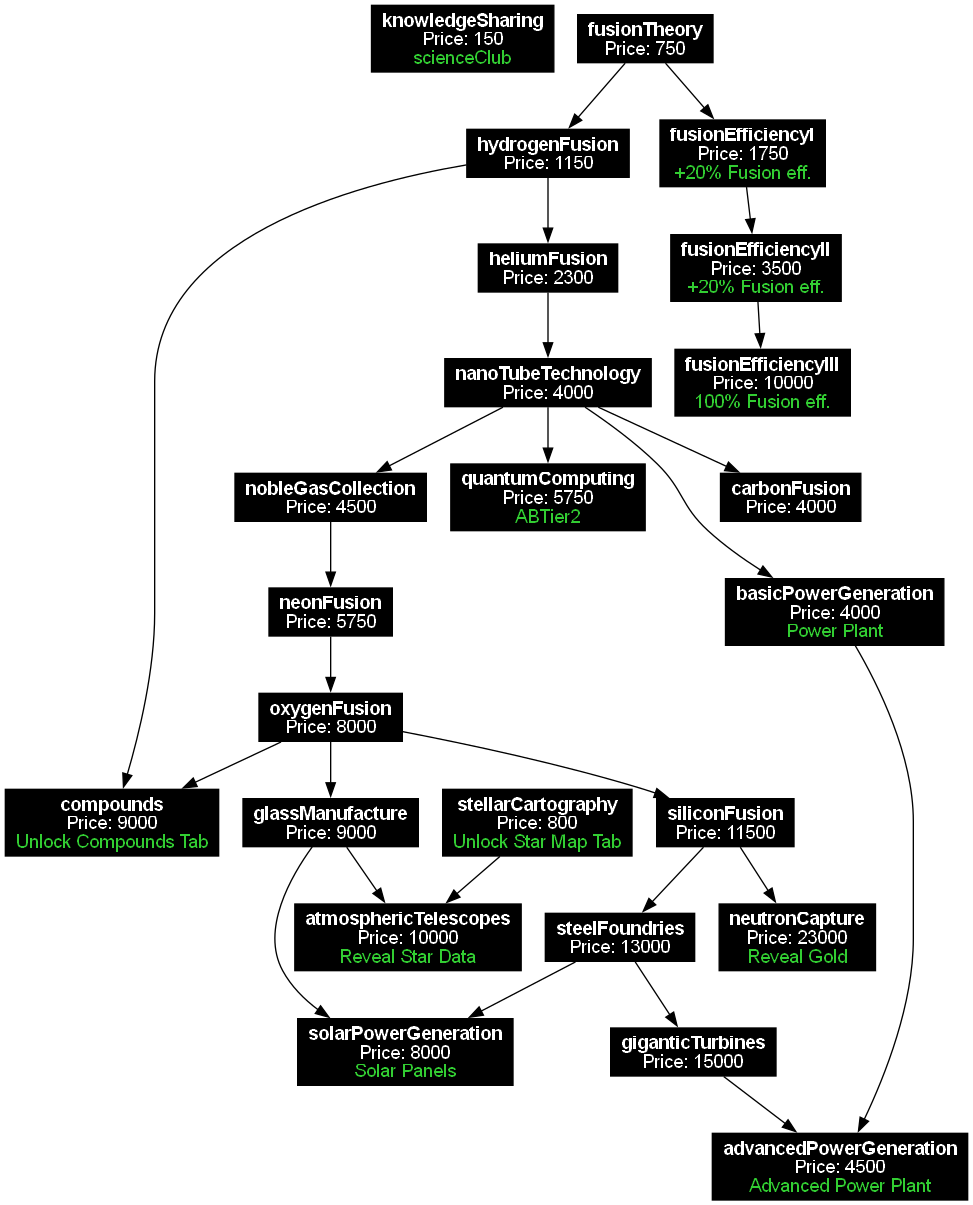
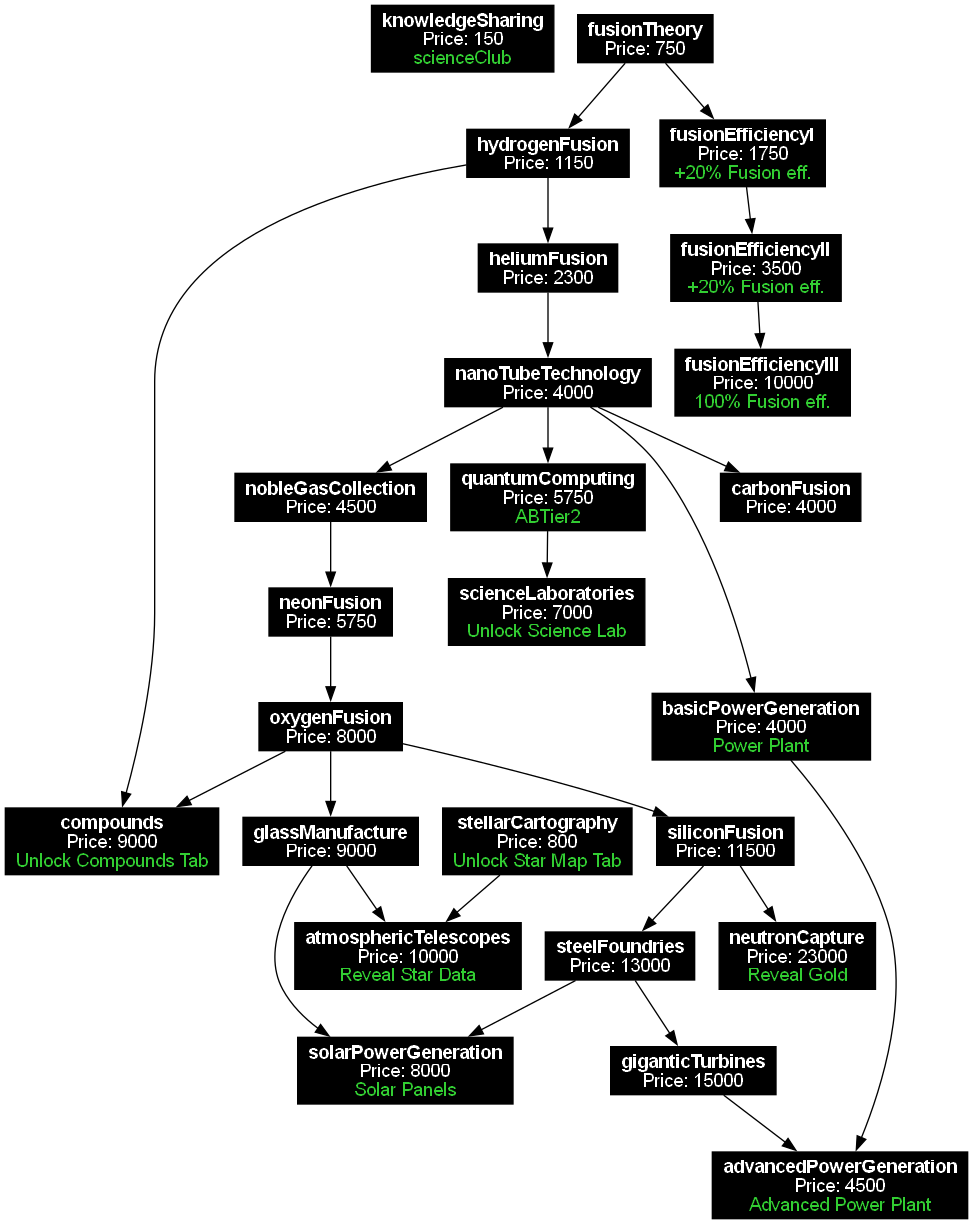
.

diff --git a/descriptions.js b/descriptions.js
@@ -45,6 +45,7 @@ export const techNotificationMessages = {
     glassManufacture: 'Glass Manufacture Researched\n\nWe can now produce Glass compounds!',
     neutronCapture: 'Neutron Capture Researched\n\nThis will now allow us to fuse Gold, modern day Alchemy, we will be rich beyond belief!',
     quantumComputing: 'Quantum Computing Researched\n\nMore advanced Machinery is now available!',
+    scienceLaboratories: 'Science Laboratories Researched\n\nYou can now build Science Labs!',
     nanoTubeTechnology: 'Nano Tube Technology Researched\n\nWith this we can start to learn about how to fuse Carbon in the future!',
     stellarCartography: 'Stellar Cartography Researched\n\nYou unlocked The Star Map!',
     fusionEfficiencyI: 'Fusion Efficiency Stage I Researched\n\n20% Boost to Fusion returns!',
@@ -230,6 +231,11 @@ export const optionDescriptions = {
         content2: "",
         updateAt: ""
     },
+    researchScienceLabRow: {
+        content1: "Build a Science Lab to do large amounts of Research.",
+        content2: "",
+        updateAt: ""
+    },
     techKnowledgeSharingRow: {
         content1: "Unlock Knowledge Sharing to advance research capabilities.",
         content2: "",
@@ -316,17 +322,17 @@ export const optionDescriptions = {
         updateAt: ""
     },
     techAtmosphericTelescopesRow: {
-        content1: "Deploy Atmospheric Telescopes to get data about the surrounding stellar neighborhood.",
+        content1: "Unlock Atmospheric Telescopes to get data about the surrounding stellar neighborhood.",
         content2: "",
         updateAt: ""
     },
     techGiganticTurbinesRow: {
-        content1: "Gigantic Turbines allow the building of advanced power generators.",
+        content1: "Unlock Gigantic Turbines to allow the building of advanced power generators.",
         content2: "",
         updateAt: ""
     },
     techSteelFoundriesRow: {
-        content1: "Build Steel Foundries to produce high strength steel compounds.",
+        content1: "Unlock Steel Foundries to produce high strength steel compounds.",
         content2: "",
         updateAt: ""
     },
@@ -336,20 +342,25 @@ export const optionDescriptions = {
         updateAt: ""
     },
     techAdvancedPowerGenerationRow: {
-        content1: "Invest in Advanced Power Generation to boost energy production efficiency.",
+        content1: "Unlock Advanced Power Generation to boost energy production.",
         content2: "",
         updateAt: ""
     },
     techBasicPowerGenerationRow: {
-        content1: "Enable Basic Power Generation to start producing energy.",
+        content1: "Unlock Basic Power Generation to start producing energy.",
         content2: "",
         updateAt: ""
     },
     techSolarPowerGenerationRow: {
-        content1: "Utilize the local star to harness clean, renewable energy.",
+        content1: "Unlock the ability to utilize the local star to harness clean, renewable energy.",
         content2: "",
         updateAt: ""
-    },    
+    },
+    techScienceLaboratoriesRow: {
+        content1: "Unlock Science Laboratories to build huge labs for large scale, dedicated research.",
+        content2: "",
+        updateAt: "" 
+    },
     powerPlantLevelI: {
         content1: "This is the first building available to produce energy.",
         content2: "",

diff --git a/drawTab3Content.js b/drawTab3Content.js
@@ -91,7 +91,7 @@ export function drawTab3Content(heading, optionContentElement) {
             'scienceLab',
             'cash',
             null,
-            ['tech', 'knowledgeSharing'], //change add new tech for scienceLabs
+            ['tech', 'scienceLaboratories'],
             null,
             null
         );
@@ -449,6 +449,34 @@ export function drawTab3Content(heading, optionContentElement) {
                     'research',
                     null,
                     ['research', 'researchPoints'],
+                    null,
+                    null
+                )
+            },
+            {
+                techName: 'scienceLaboratories',
+                row: createOptionRow(
+                    'techScienceLaboratoriesRow',
+                    null,
+                    'Science Laboratories:',
+                    createButton(`Research`, ['option-button', 'red-disabled-text', 'resource-cost-sell-check', 'tech-unlock'], (event) => {
+                        gain('scienceLaboratories', null, 'techUnlock', 'techUnlock', false, 'techs');
+                        event.currentTarget.classList.add('unlocked-tech');
+                        setTechUnlockedArray('scienceLaboratories');
+                        showNotification(techNotificationMessages.scienceLaboratories, 'info');
+                    }, 'techUnlock', '', 'scienceLaboratories', null, 'research', false, null),
+                    null,
+                    null,
+                    null,
+                    null,
+                    `${getResourceDataObject('techs', ['scienceLaboratories', 'price'])} Research${getResourceDataObject('techs', ['scienceLaboratories', 'prereqs']).filter(prereq => prereq !== null).length > 0 ? ', ' : ''}<span id="scienceLaboratoriesPrereq">${getResourceDataObject('techs', ['scienceLaboratories', 'prereqs']).filter(prereq => prereq !== null).join(', ') || ''}</span>`,
+                    '',
+                    'techUnlock',
+                    'scienceLaboratories',
+                    null,
+                    'research',
+                    null,
+                    false,
                     null,
                     null
                 )

diff --git a/resourceDataObject.js b/resourceDataObject.js
@@ -246,19 +246,19 @@ export const resourceData = {
                 price: 5, 
                 rate: 0.005,
                 quantity: 0, 
-                setPrice: 'scienceKitPrice' 
+                setPrice: 'scienceKitPrice'
             },
             scienceClub: { 
                 price: 75,
                 rate: 0.1,
                 quantity: 0, 
-                setPrice: 'scienceClubPrice' 
+                setPrice: 'scienceClubPrice'
             },
             scienceLab: { 
                 price: 300,
                 rate: 0.5,
                 quantity: 0, 
-                setPrice: 'scienceLabPrice' 
+                setPrice: 'scienceLabPrice'
             }
         }
     },    
@@ -280,6 +280,7 @@ export const resourceData = {
         nanoTubeTechnology: { appearsAt: [3500, "heliumFusion", ""], prereqs: ['Helium Fusion'], price: 4000, idForRenderPosition: 500 },
         stellarCartography: { appearsAt: [700, null], prereqs: [null], price: 800, idForRenderPosition: 510 },
         quantumComputing: { appearsAt: [5000, "nanoTubeTechnology", ""], prereqs: ['Nano Tube Technology'], price: 5750, idForRenderPosition: 520 },
+        scienceLaboratories: { appearsAt: [5750, "quantumComputing", ""], prereqs: ['Quantum Computing'], price: 7000, idForRenderPosition: 521 },
         nobleGasCollection: { appearsAt: [4000, "nanoTubeTechnology", ""], prereqs: ['Nano Tube Technology'], price: 4500, idForRenderPosition: 530 },
         neutronCapture: { appearsAt: [20000, "siliconFusion", ""], prereqs: ['Silicon Fusion'], price: 23000, idForRenderPosition: 600 },
         glassManufacture: { appearsAt: [8000, "oxygenFusion", ""], prereqs: ['Oxygen Fusion'], price: 9000, idForRenderPosition: 700 },
